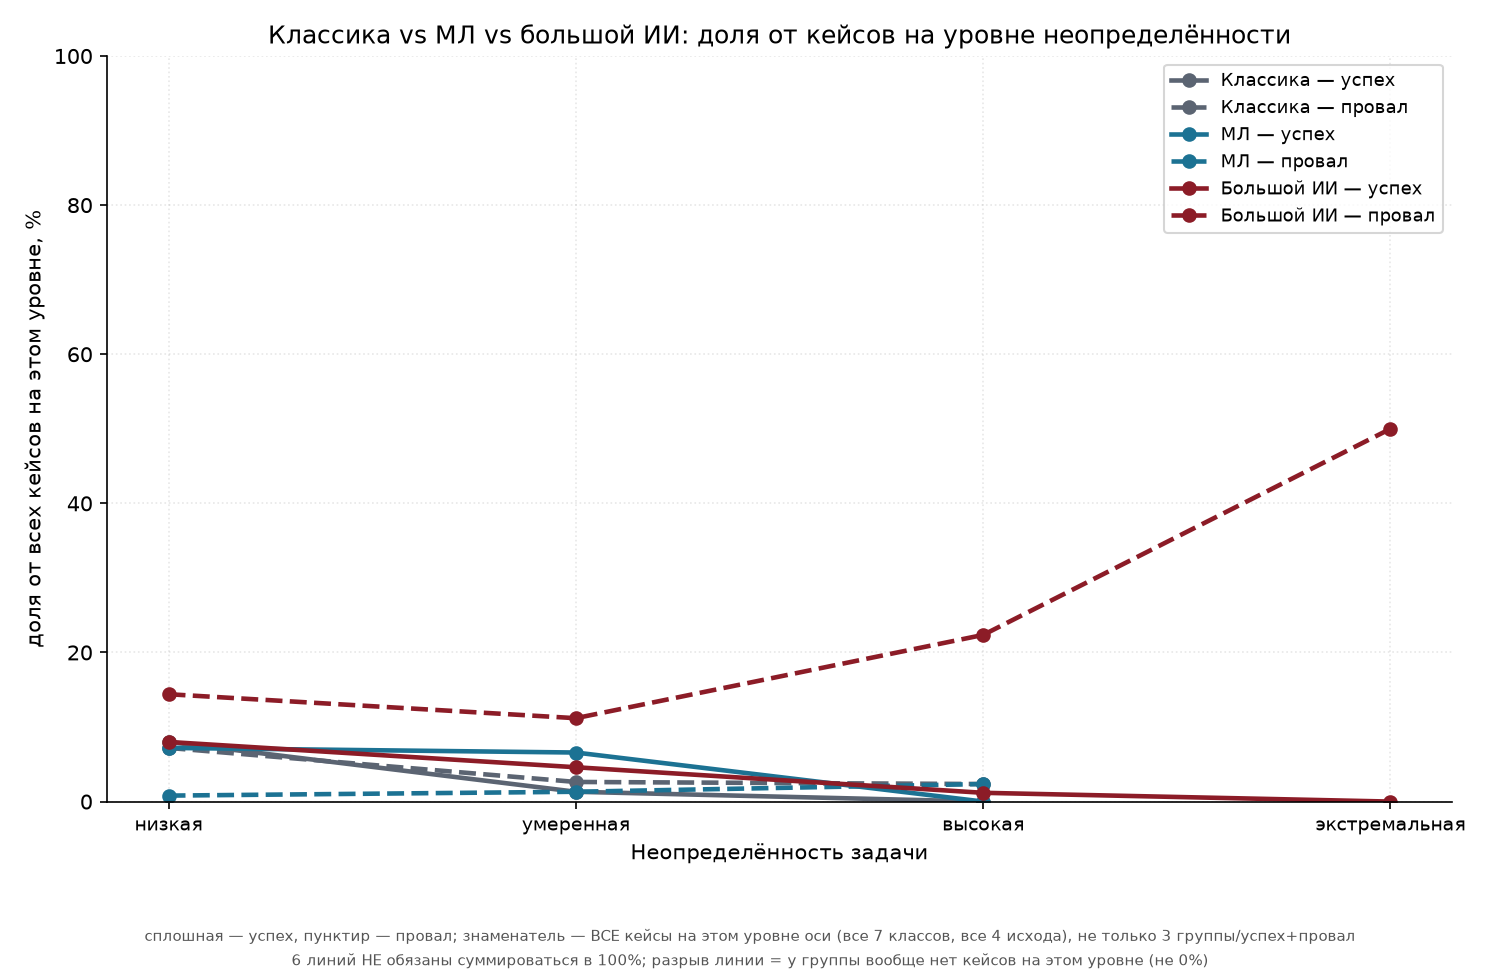
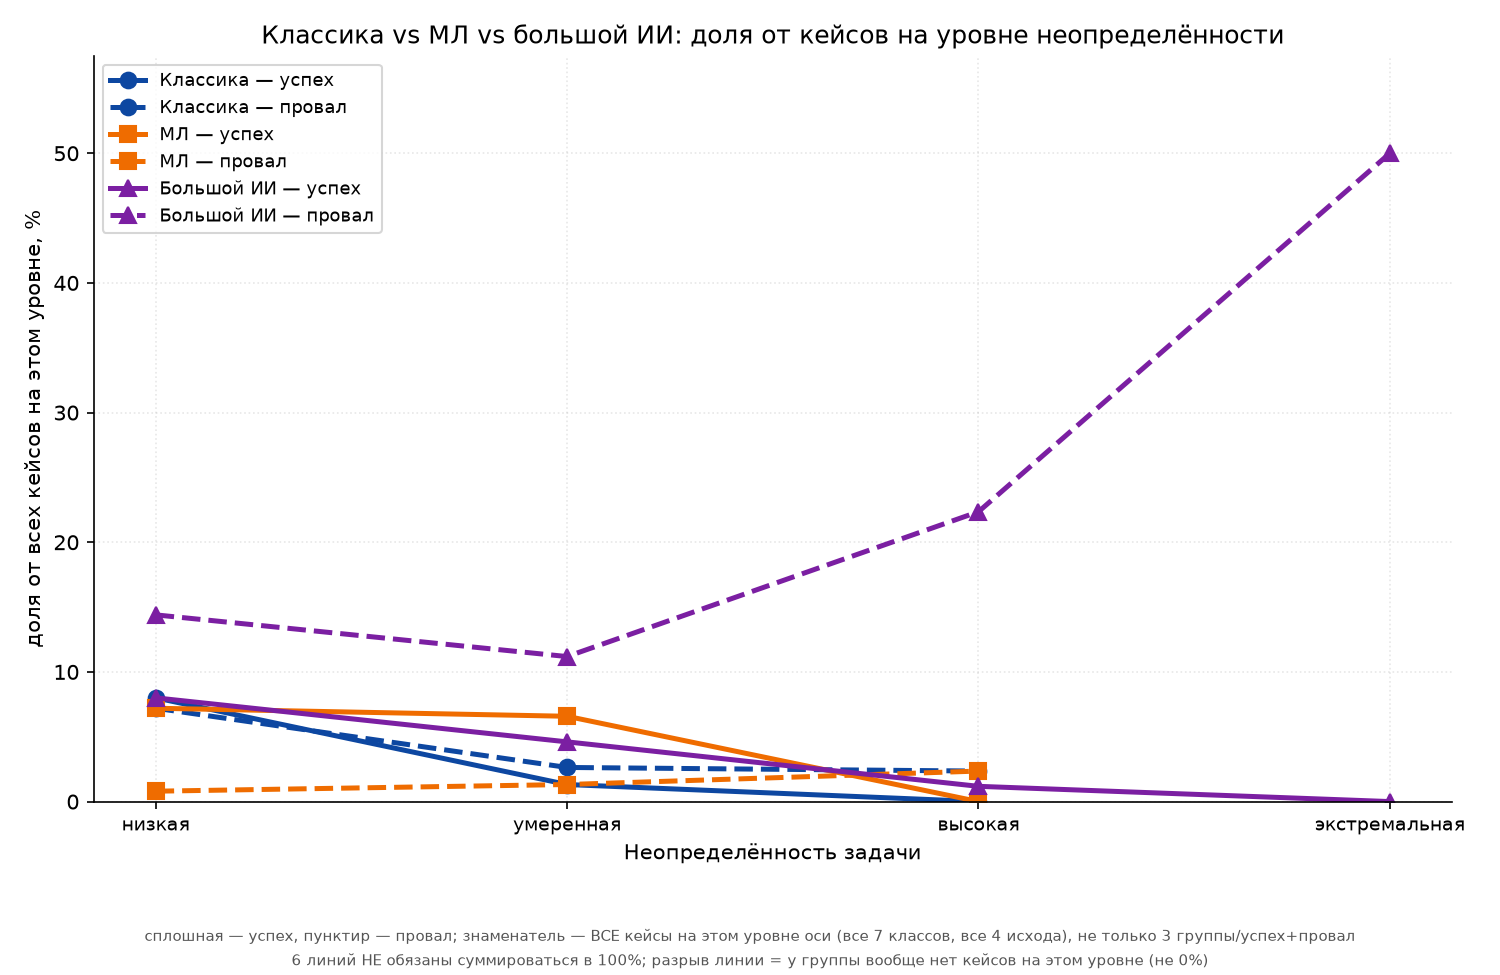
Research #349: автомасштаб и контрастная палитра для 3 долевых графиков групп метода
Владелец курса: "графики по долям слишком сжаты и одноцветные не читаются" —
chart-groups-axis{1,2,4}-*-share.png держали фиксированную шкалу 0-100%, хотя
5 из 6 линий лежат в диапазоне 0-15% (кроме "Большой ИИ — провал" до ~50%), и
цвета Классики (серый) и МЛ (тил) сливались в этой тесной зоне.

Фикс в chart_groups_per_axis_share (общая функция для всех трёх графиков):
y-автомасштаб под фактический максимум конкретного графика вместо жёстких
0-100 (axis1 → ylim≈57.5, axis2 → ylim≈25.2, axis4 → ylim≈30.5); отдельная
контрастная палитра GROUP_COLORS_SHARE (синий/оранжевый/фиолетовый вместо
серого/тила/бордо) только для этих трёх графиков — GROUP_COLORS основной
count-версии не тронут; своя форма маркера на группу (круг/квадрат/
треугольник) для различимости без опоры на цвет; линии толще (2.4) и
маркеры крупнее (7.5). Данные, заголовки, подписи осей и сноски не менялись.

diff --git a/notes/research/osi-primenimosti-ii/assets/make_charts.py b/notes/research/osi-primenimosti-ii/assets/make_charts.py
@@ -890,7 +890,29 @@ def chart_lines_outcome_share_per_axis(rows):
 # (across всех 7 классов, все 4 исхода) — не 100%-суммирующийся набор, а
 # "какую долю целого среза занимает именно эта группа+исход". Честный разрыв
 # сохранён: у группы вообще нет кейсов на уровне -> точка пропущена, а не 0%.
+#
+# Раунд 6 (фикс владельца, 2026-11-18): "графики по долям слишком сжаты и
+# одноцветные не читаются". Причина — все 6 линий лежат в диапазоне ~0-15%
+# (кроме "Большой ИИ — провал" до ~50%) на фиксированной шкале 0-100%, плюс
+# Классика/МЛ были слишком похожи (серый/тил) в этой тесной зоне. Фикс:
+# (а) y-автомасштаб под фактический максимум именно этого графика вместо
+# жёстких 0-100; (б) отдельная, более контрастная палитра групп ТОЛЬКО для
+# этих 3 долевых графиков (GROUP_COLORS основной/count-версии не трогается);
+# (в) своя форма маркера на группу (круг/квадрат/треугольник) — различимость
+# не только по цвету; (г) чуть толще линии и крупнее маркеры.
 # ---------------------------------------------------------------------------
+GROUP_COLORS_SHARE = {
+    "classic": "#0D47A1",  # сильный синий
+    "ml": "#EF6C00",       # сильный оранжевый
+    "bigai": "#7B1FA2",    # сильный фиолетовый/маджента
+}
+GROUP_MARKERS_SHARE = {
+    "classic": "o",   # круг
+    "ml": "s",        # квадрат
+    "bigai": "^",     # треугольник
+}
+
+
 def chart_groups_per_axis_share(rows, axis_key, out_name, title, xlabel):
     order = AXIS_ORDERS[axis_key]
     labels = AXIS_TICK_LABELS[axis_key]
@@ -898,6 +920,7 @@ def chart_groups_per_axis_share(rows, axis_key, out_name, title, xlabel):
     x = np.arange(len(order))
 
     fig, ax = plt.subplots(figsize=(10, 6.5))
+    all_values = []
     for g in GROUP_ORDER:
         for outcome, ls, ru in (("success", "-", "успех"), ("failure", "--", "провал")):
             ys = []
@@ -911,9 +934,10 @@ def chart_groups_per_axis_share(rows, axis_key, out_name, title, xlabel):
                     ys.append(cnt / denom[lvl] * 100)
             xs_plot = [xi for xi, yi in zip(x, ys) if yi is not None]
             ys_plot = [yi for yi in ys if yi is not None]
+            all_values.extend(ys_plot)
             ax.plot(
-                xs_plot, ys_plot, marker="o", markersize=6, linewidth=2.2,
-                linestyle=ls, color=GROUP_COLORS[g],
+                xs_plot, ys_plot, marker=GROUP_MARKERS_SHARE[g], markersize=7.5,
+                linewidth=2.4, linestyle=ls, color=GROUP_COLORS_SHARE[g],
                 label=f"{GROUP_LABELS[g]} — {ru}",
             )
 
@@ -921,7 +945,8 @@ def chart_groups_per_axis_share(rows, axis_key, out_name, title, xlabel):
     ax.set_xticklabels(labels, fontsize=9)
     ax.set_xlabel(xlabel)
     ax.set_ylabel("доля от всех кейсов на этом уровне, %")
-    ax.set_ylim(0, 100)
+    y_max = max(all_values) if all_values else 1.0
+    ax.set_ylim(0, y_max * 1.15)
     ax.set_title(title, fontsize=12)
     ax.grid(True, linestyle=":", alpha=0.3)
     for spine in ("top", "right"):
